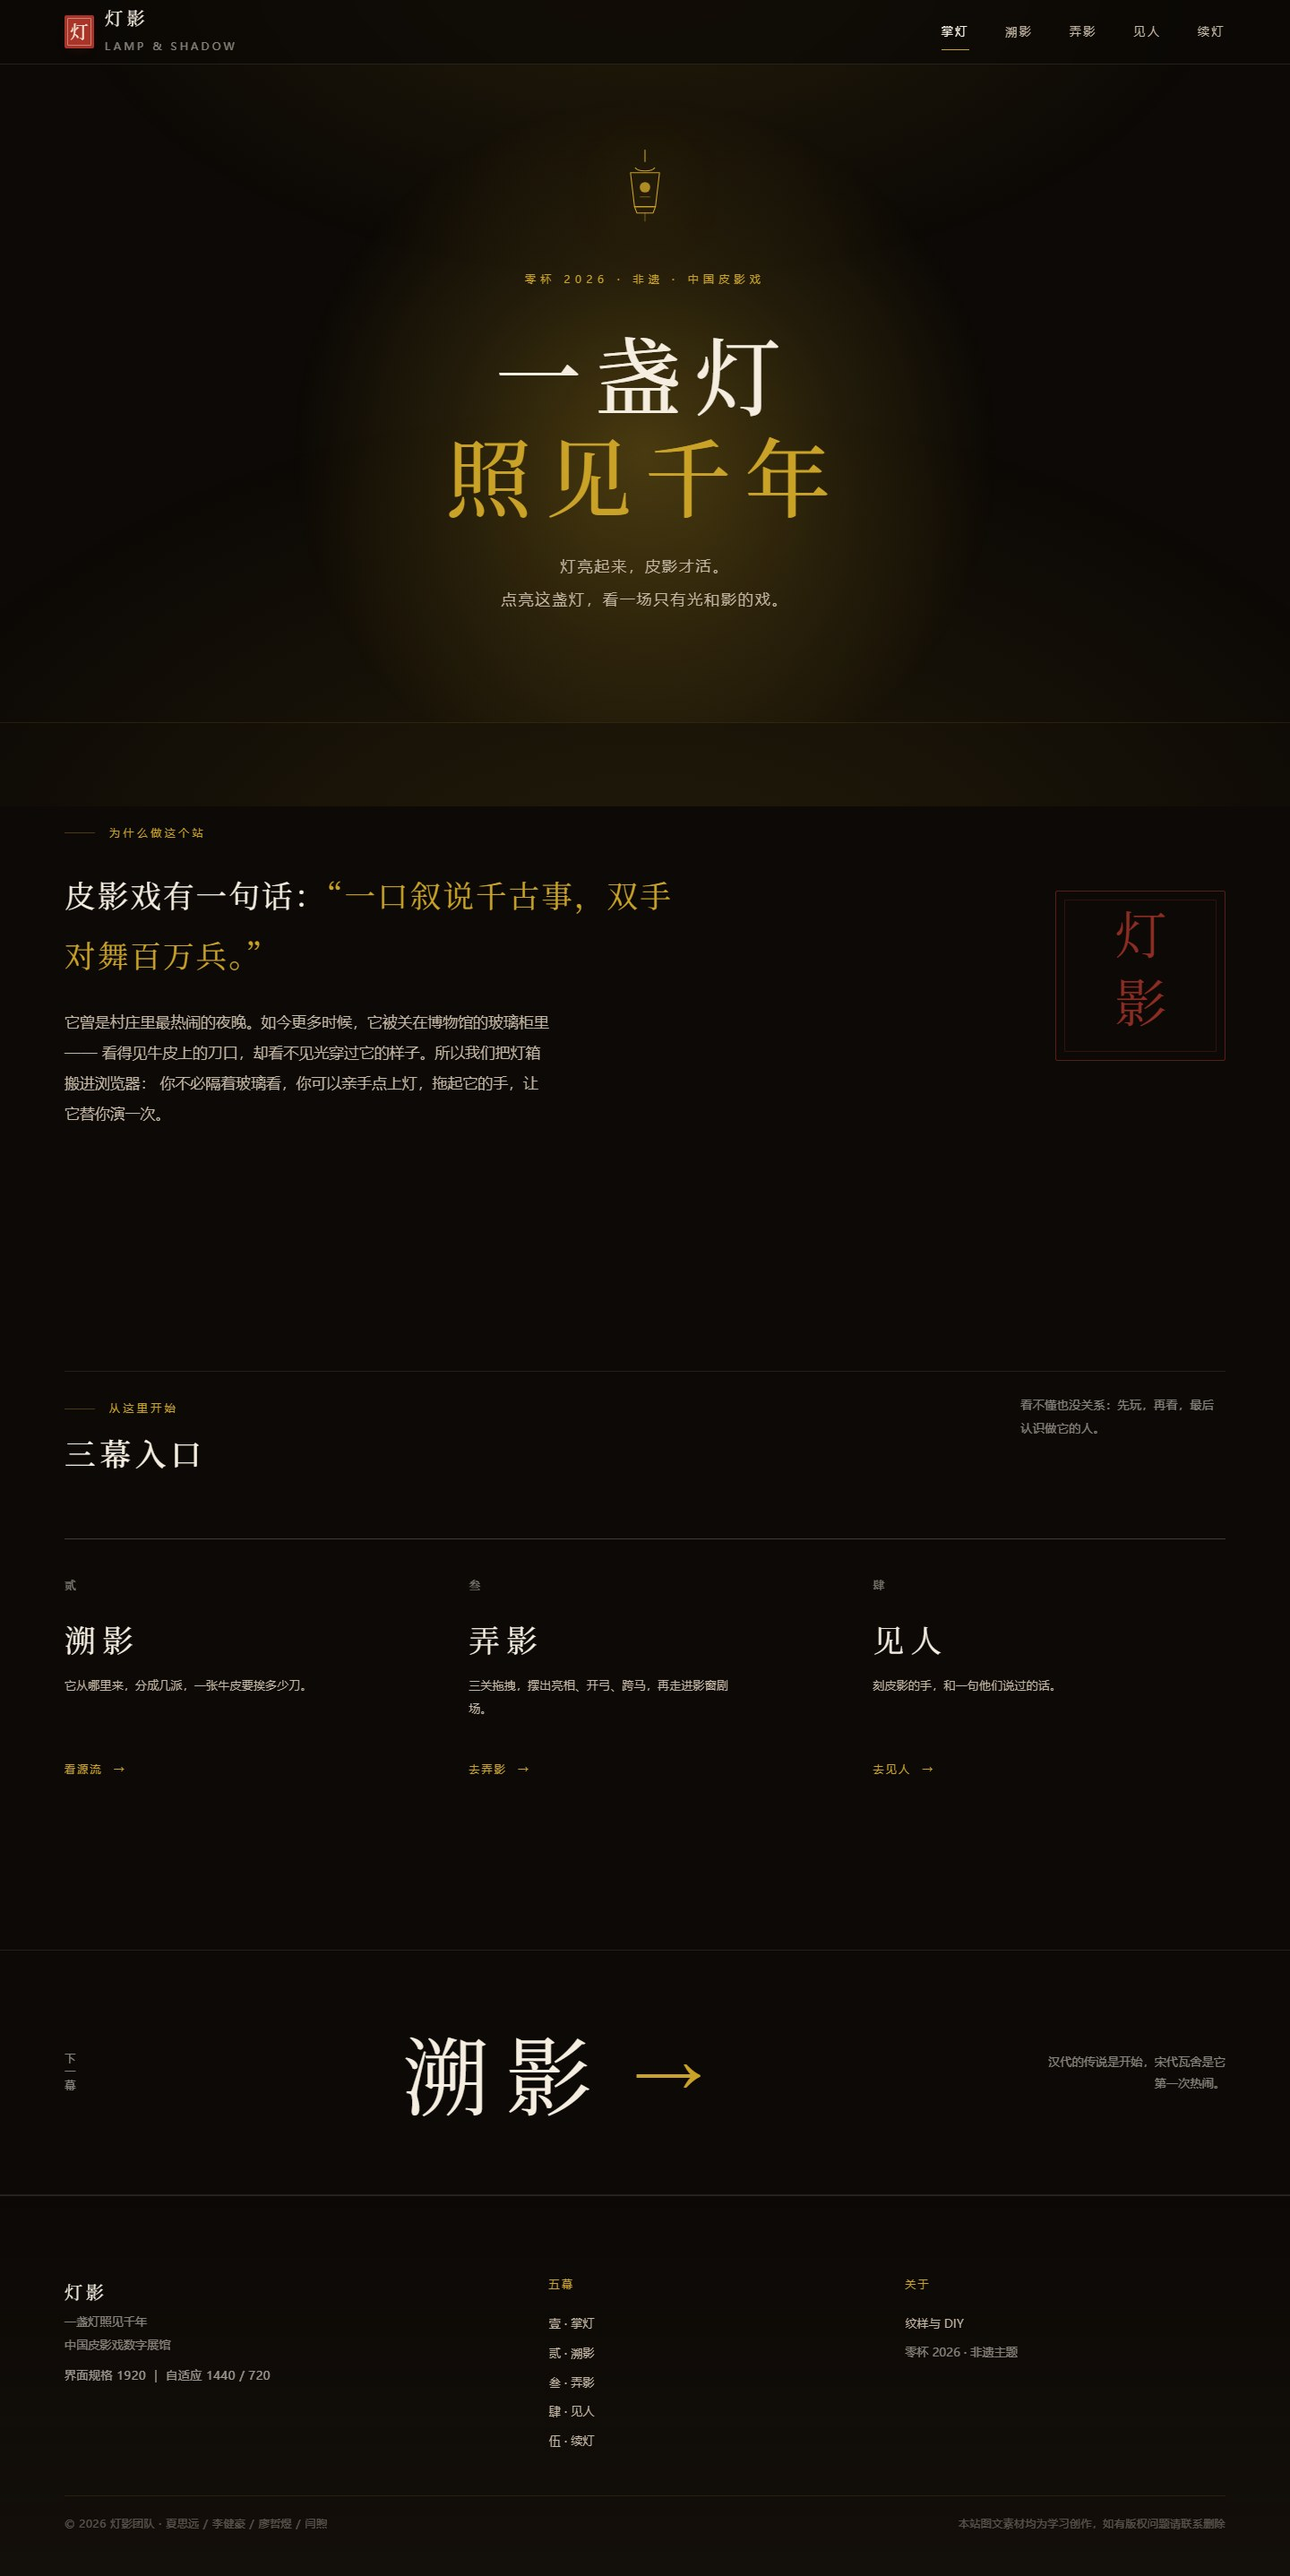
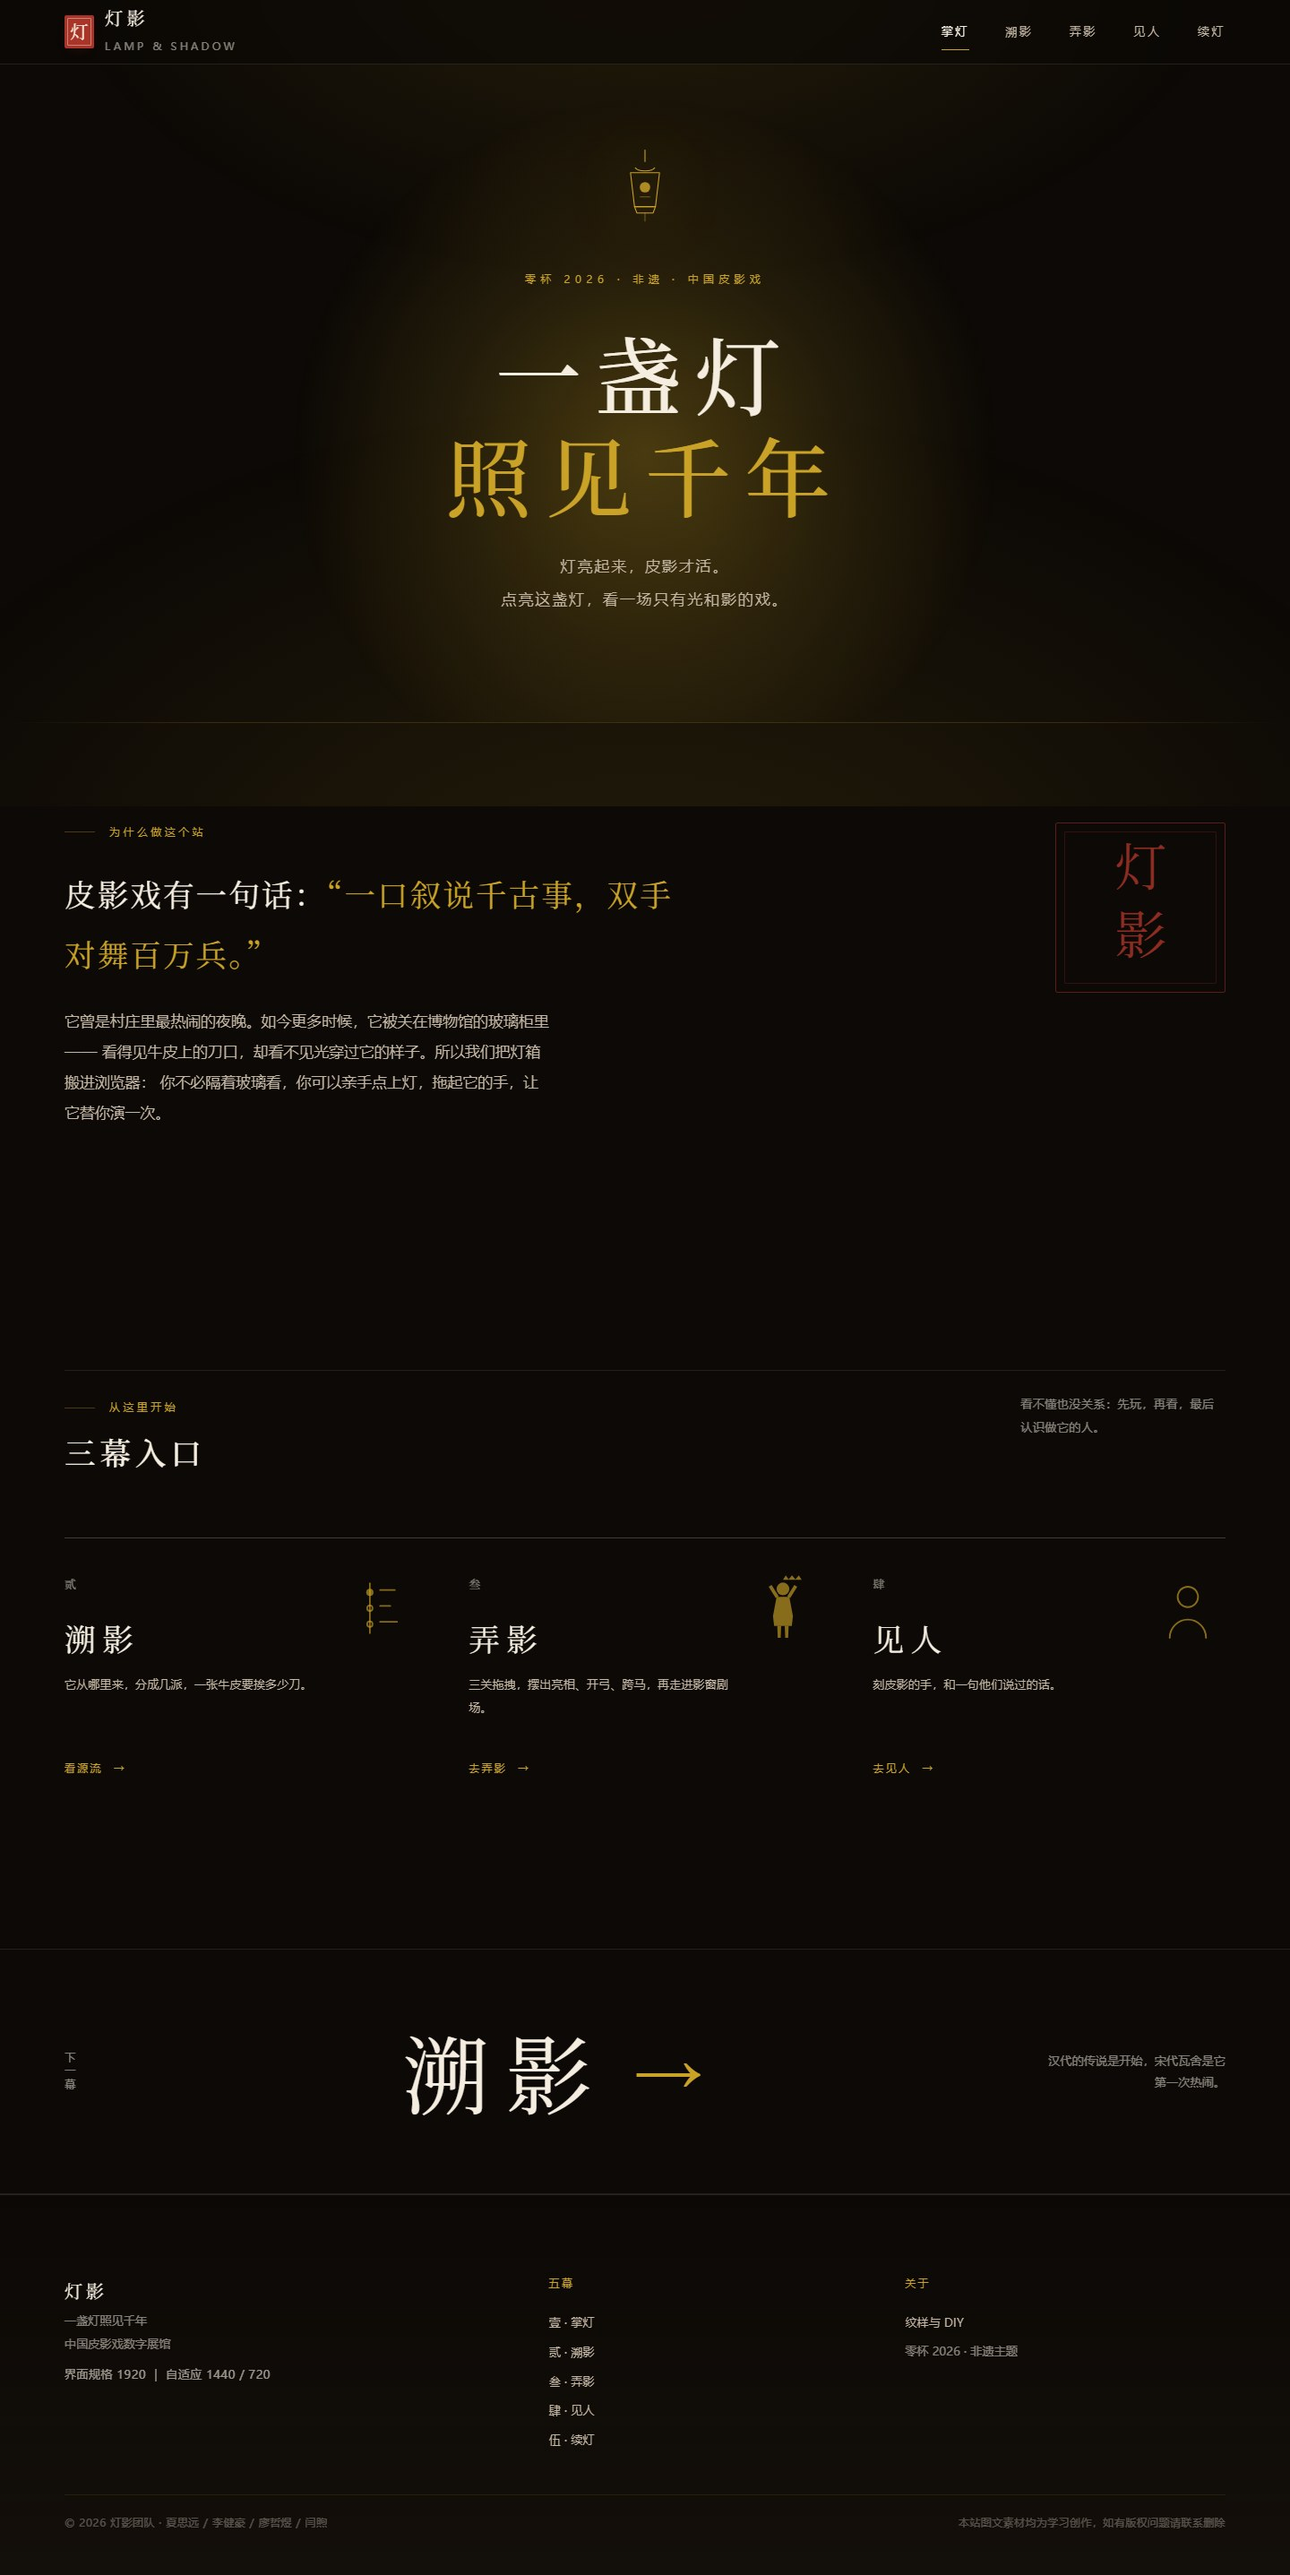
style: P1 前两项——入口展签与暗场过渡
- 三个入口卡加 56×76 线描标记（年表刻度 / 影人 / 半身像），绝对定位在右上角，页面从「文字目录」变成「展签」
  - 初版放在左上 44×60，视觉太弱且与标题抢位；改右上角后与大字形成「文 + 图」的对位
- hero 到正文的过渡：把 .lede 的实线边框换成两端淡出的细线，像光斑收束而不是一条分隔
- 「灯影」朱印从垂直居中改为对齐区块顶部，从「浮着的装饰」变成「挂在标题上的印」
- 回归：30 组审计 0 报错 0 溢出，移动端入口标记未溢出

diff --git a/web/index.html b/web/index.html
@@ -105,6 +105,13 @@
 
         <div class="entries" data-stagger>
           <a class="entry" href="origin.html">
+            <span class="entry__mark" aria-hidden="true"><svg viewBox="0 0 44 60" fill="none" stroke="currentColor" stroke-width="1.4" stroke-linecap="round">
+              <path d="M14 8v44"/>
+              <circle cx="14" cy="16" r="3.2" fill="currentColor" stroke="none"/>
+              <circle cx="14" cy="30" r="2.4"/>
+              <circle cx="14" cy="44" r="2.4"/>
+              <path d="M23 14h13M23 28h9M23 42h15"/>
+            </svg></span>
             <span class="entry__num">贰</span>
             <span class="entry__name">溯影</span>
             <span class="entry__line">它从哪里来，分成几派，一张牛皮要挨多少刀。</span>
@@ -112,6 +119,14 @@
           </a>
 
           <a class="entry" href="play.html" id="entryPlay">
+            <span class="entry__mark" aria-hidden="true"><svg viewBox="0 0 44 60" fill="currentColor">
+              <path d="M22 5l2.5-4 2.5 3.5L30 1l3 3.5L36 1l2.5 4z"/>
+              <circle cx="22" cy="13" r="5.6"/>
+              <path d="M16.4 20h11.2l3.2 17-1 8.5H14.2l-1-8.5z"/>
+              <path d="M15.6 21L9.4 11l2.6-1.6 6.2 10z"/>
+              <path d="M28.4 21l6.2-10-2.6-1.6-6.2 10z"/>
+              <path d="M17 45.5h3.4L20 56h-2.6zM23.6 45.5H27L26.6 56h-2.6z"/>
+            </svg></span>
             <span class="entry__num">叁</span>
             <span class="entry__name">弄影</span>
             <span class="entry__line">三关拖拽，摆出亮相、开弓、跨马，再走进影窗剧场。</span>
@@ -120,6 +135,10 @@
           </a>
 
           <a class="entry" href="people.html">
+            <span class="entry__mark" aria-hidden="true"><svg viewBox="0 0 44 60" fill="none" stroke="currentColor" stroke-width="1.5" stroke-linecap="round">
+              <circle cx="22" cy="20" r="9"/>
+              <path d="M6 56c0-8.8 7.2-16 16-16s16 7.2 16 16"/>
+            </svg></span>
             <span class="entry__num">肆</span>
             <span class="entry__name">见人</span>
             <span class="entry__line">刻皮影的手，和一句他们说过的话。</span>

diff --git a/web/assets/css/pages.css b/web/assets/css/pages.css
@@ -138,8 +138,18 @@ body[data-lit="1"] .hero__scroll { display: none; }
 
 /* ---------- 首页：分隔 ---------- */
 .lede {
+  position: relative;
   padding-block: clamp(56px, 8vw, 112px);
-  border-top: 1px solid var(--gold-1);
+}
+/* 从暗场到正文的过渡：两端淡出的细线，比一条实线更像光 */
+.lede::before {
+  content: "";
+  position: absolute;
+  top: 0;
+  left: 0;
+  right: 0;
+  height: 1px;
+  background: linear-gradient(90deg, transparent, var(--gold-2) 16%, var(--gold-2) 84%, transparent);
 }
 .lede__grid {
   display: grid;
@@ -150,6 +160,7 @@ body[data-lit="1"] .hero__scroll { display: none; }
 @media (max-width: 900px) { .lede__grid { grid-template-columns: 1fr; } }
 .lede__seal {
   justify-self: end;
+  align-self: start;
   width: clamp(120px, 16vw, 190px);
   aspect-ratio: 1;
   border: 1px solid rgba(168, 52, 42, .5);

diff --git a/web/assets/css/components.css b/web/assets/css/components.css
@@ -72,6 +72,18 @@
 .entry::after { content: none; }
 .entry:hover::before,
 .entry:focus-visible::before { transform: scaleX(1); }
+/* 展签：每个入口一枚线描标记，替代纯文字的目录感 */
+.entry__mark {
+  position: absolute;
+  top: clamp(26px, 2.8vw, 40px);
+  right: clamp(4px, 1vw, 16px);
+  width: 56px;
+  height: 76px;
+  color: var(--gold-4);
+  transition: color var(--t-base) var(--ease), transform var(--t-base) var(--ease);
+}
+.entry__mark svg { display: block; width: 100%; height: 100%; }
+.entry:hover .entry__mark { color: var(--lamp); }
 .entry__num {
   display: block;
   font-family: var(--num);
